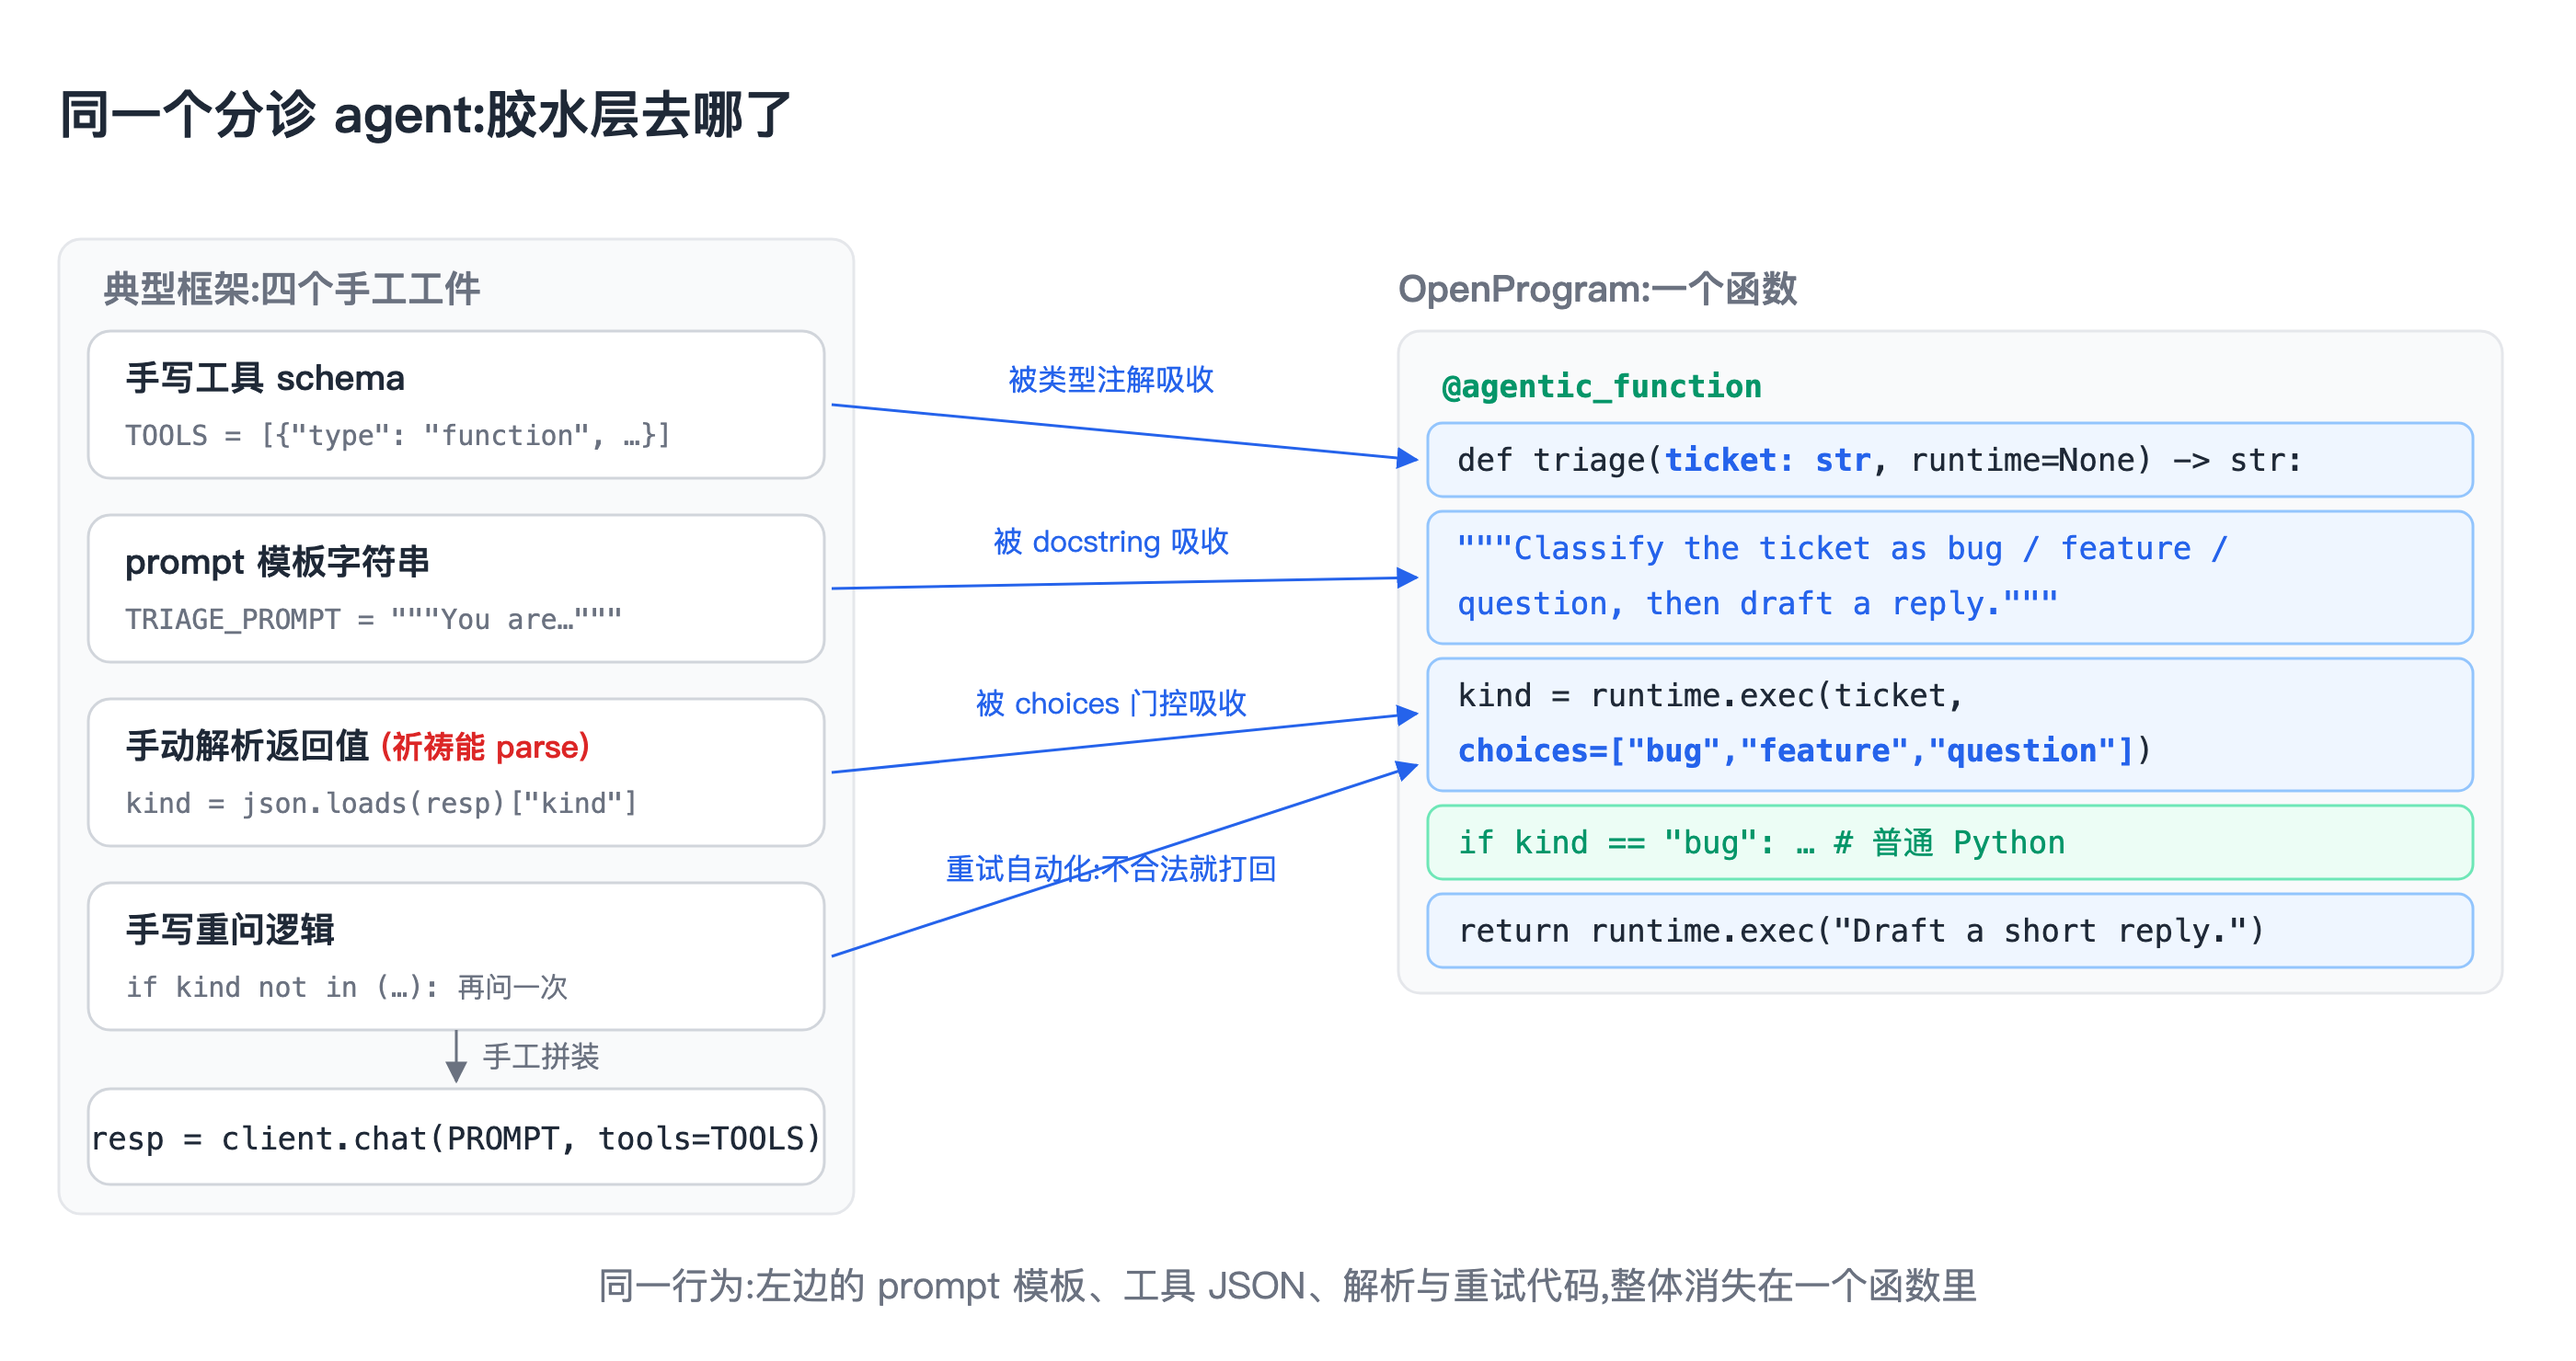
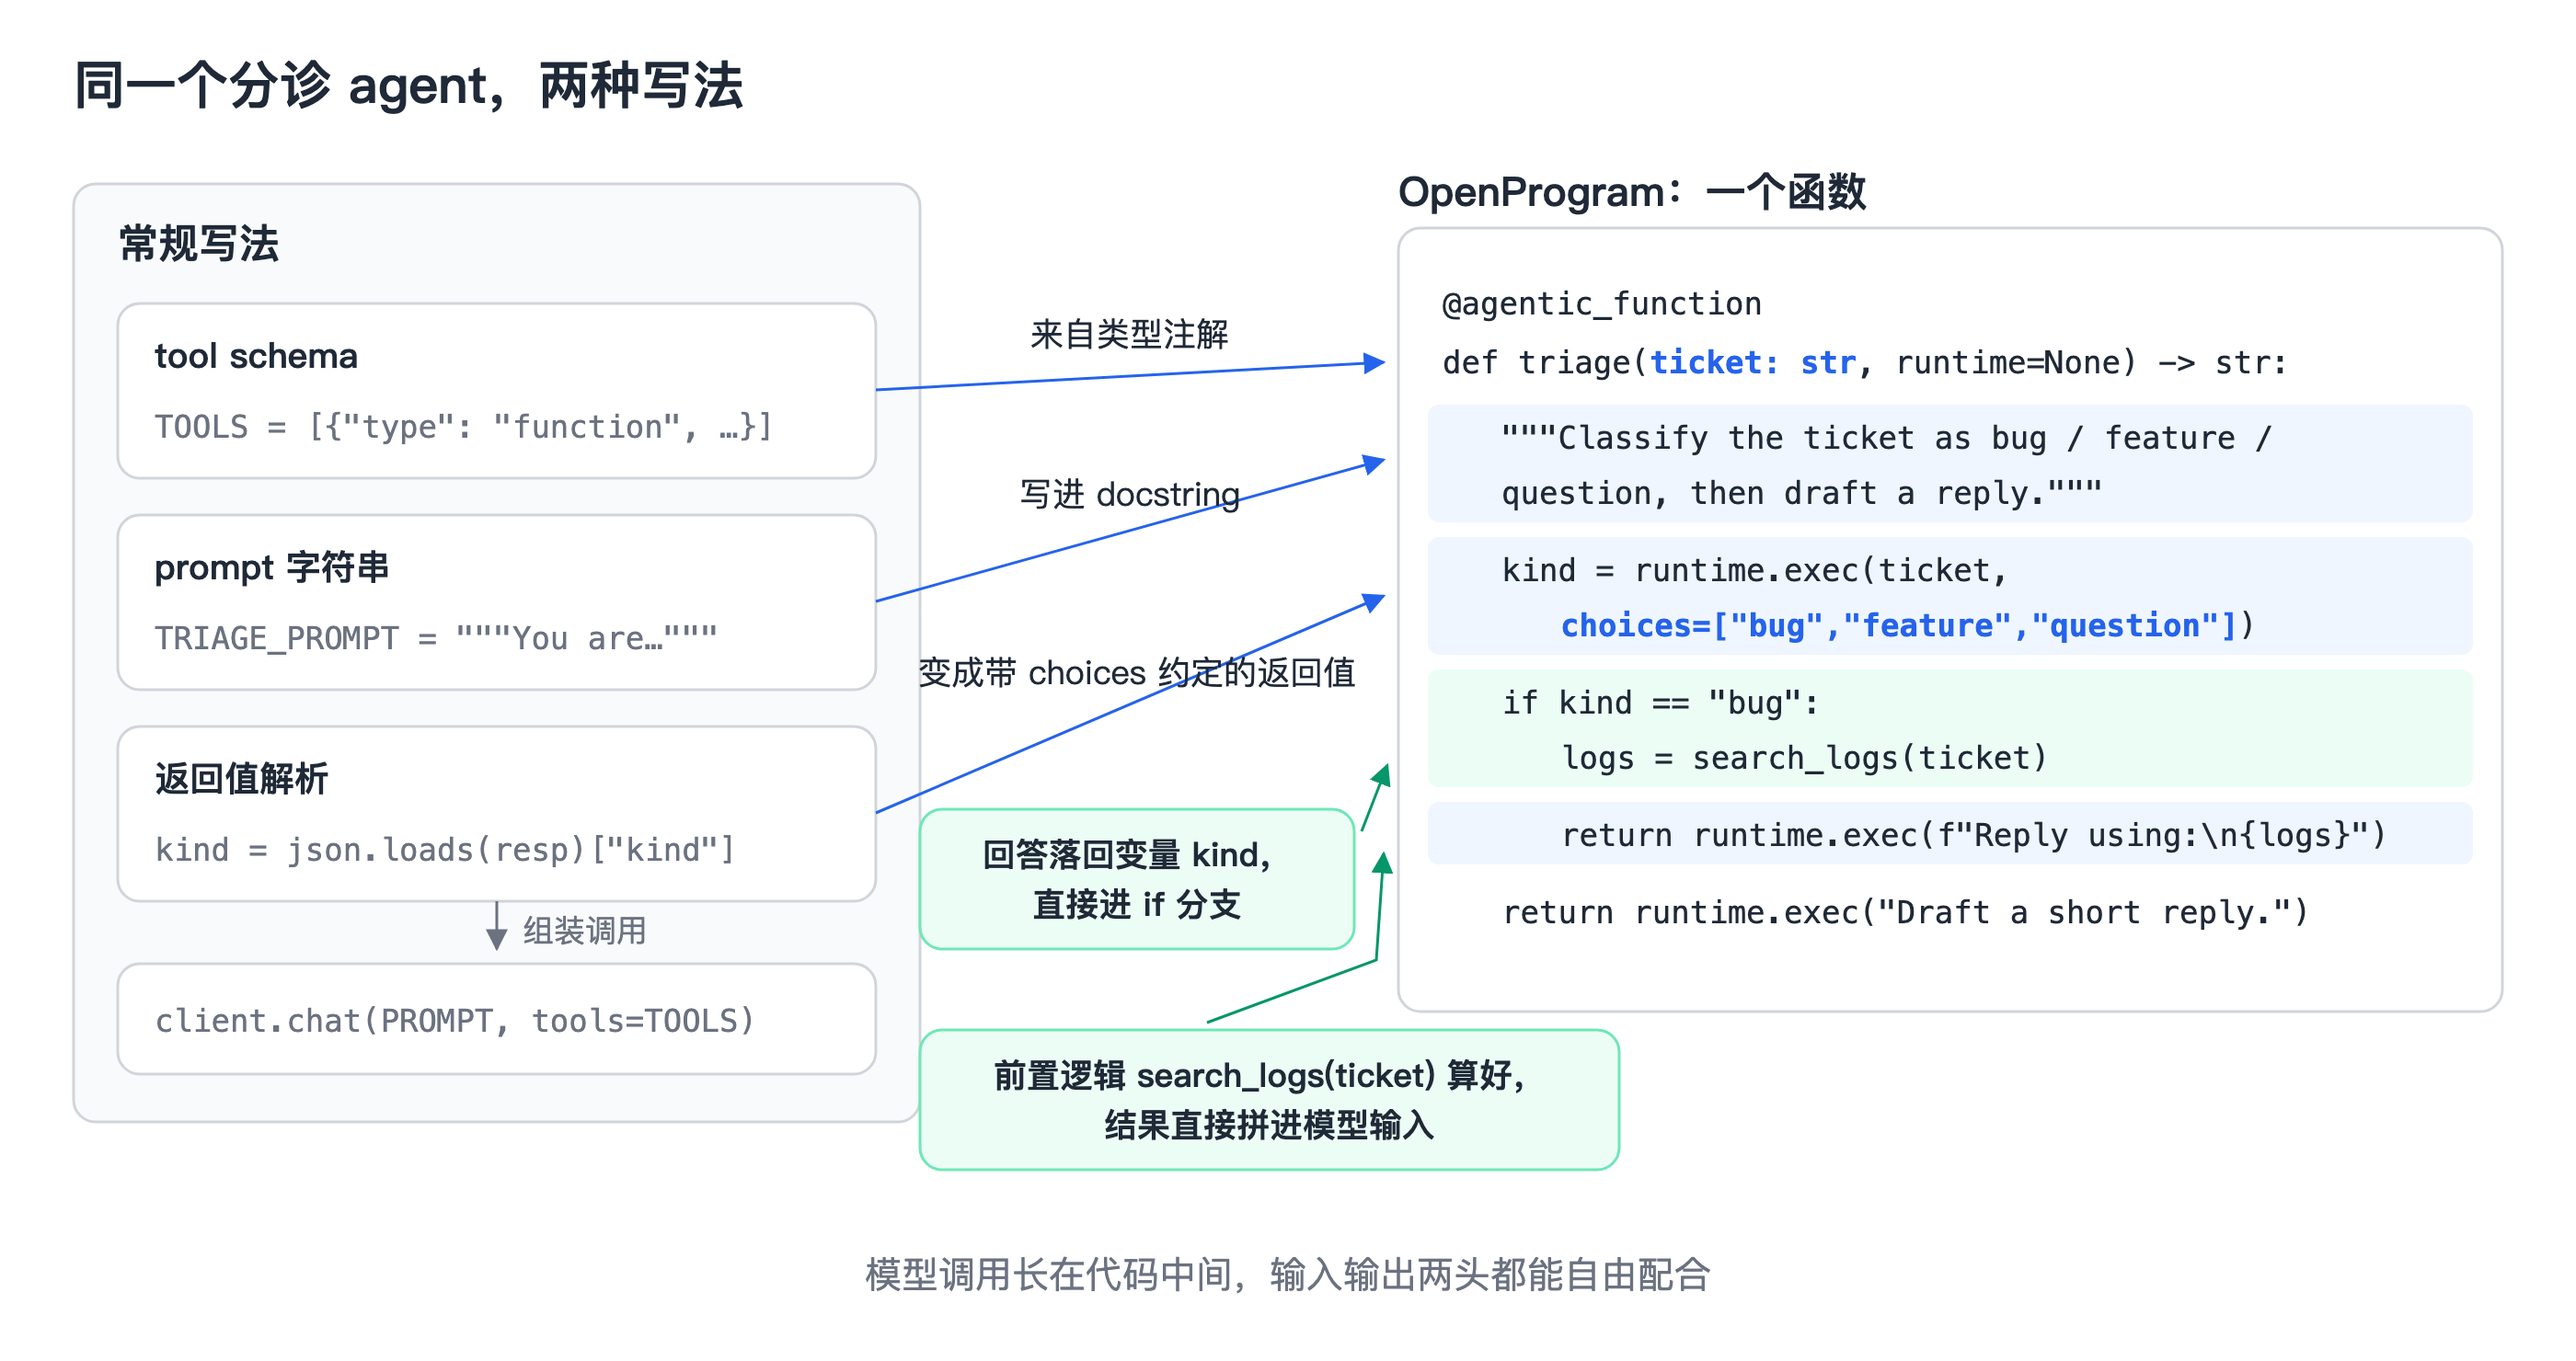
docs(promo): 01 篇基调改为正面陈述,重画 fig1 突出输入输出灵活性
Claude-Session: https://claude.ai/code/session_01JGdD7TLSRHU7jLupACLvy9

diff --git a/promo/zhihu/01-Agentic-Function.md b/promo/zhihu/01-Agentic-Function.md
@@ -2,20 +2,19 @@
 
 1. OpenProgram 技术解析（一）：像调用函数一样调用大模型
 2. 一个装饰器把 Python 函数变成 Agent：@agentic_function 是怎么工作的
-3. 别再手写 prompt 模板和 tool JSON 了：Agent 就该是一个 Python 函数
-4. Agentic Programming 的核心原语：docstring 是 prompt，类型注解是 schema
+3. Agentic Programming 的核心原语：docstring 是 prompt，类型注解是 schema
 
 ---
 
-写 LLM Agent 的人都干过这些事：把 prompt 存成字符串常量，手写一份 tool 的 JSON schema，调完接口 `json.loads` 一下，祈祷能 parse 成功，parse 失败再手写重试逻辑。这些代码和业务逻辑没有关系，纯粹是在伺候模型接口。
+大模型生成的内容，很多时候不是终点——生成完还要接着处理：拿代码去分析它、按它的结果决定下一步、把它和数据库或日志里的东西对起来。但生成内容和代码之间的耦合度目前很低：模型的输出先取出来，再专门写一段代码去解析、分析、分发。生成和处理是两个割裂的阶段，来回搬运，效率不高。
 
-我们在做 OpenProgram 的时候把这层东西整个删掉了。删掉的方式是一个装饰器：`@agentic_function`。这篇文章讲它是怎么工作的。
+于是我们想：能不能把大模型的输入输出直接接到函数调用里？函数体里既有普通语句也有模型调用，输入由代码拼出来，输出落回变量接着被代码处理——直接运行这个函数，就同时用上了代码的确定性和模型的能力。这就是 OpenProgram 的做法，载体是一个装饰器：`@agentic_function`。这篇文章讲它是怎么工作的。
 
 ## 同一个 agent，两种写法
 
 需求：一个工单分诊 agent，把工单分成 bug / feature / question，然后起草回复。
 
-先看典型框架下的写法：
+常规写法：
 
 ```python
 TRIAGE_PROMPT = """You are a triage
@@ -29,9 +28,9 @@ TOOLS = [{"type": "function", "function": {
     "required": ["ticket"]}}}]
 
 resp = client.chat(TRIAGE_PROMPT, tools=TOOLS)
-kind = json.loads(resp)["kind"]     # 祈祷能 parse
+kind = json.loads(resp)["kind"]     # 解析返回值
 if kind not in ("bug", "feature"):
-    ...                             # 手写重问逻辑
+    ...                             # 需要时自己重问
 ```
 
 再看 OpenProgram 下的写法：
@@ -52,19 +51,19 @@ def triage(ticket: str, runtime=None) -> str:
 
 ![](figures/01-fig1-comparison.png)
 
-行为完全一样，但左边那三样东西都没了：
+行为完全一样，三块东西各自找到了 Python 里现成的位置：
 
-- **prompt 模板没了**——docstring 就是 prompt。它本来就该写在函数上，Python 语法早就给了位置。
-- **tool JSON 没了**——类型注解就是 schema。`ticket: str` 这一行信息量和那七行 JSON 完全等价，框架替你生成。
-- **parse 和重试没了**——`choices=["bug", "feature", "question"]` 是一个代码门控：模型的回答落不进这三个值，框架自动把它送回去重新决策，直到合法为止。你的 `if kind == "bug"` 分支拿到的永远是合法值。
+- **prompt 写进 docstring**——它本来就该写在函数上，Python 语法早就给了位置。
+- **schema 来自类型注解**——`ticket: str` 这一行信息量和那七行 JSON 等价，框架替你生成。
+- **解析变成返回值**——`choices=["bug", "feature", "question"]` 声明了合法输出，框架保证 `kind` 拿到手就是三个值之一，可以直接进 `if` 分支。
 
-这里的关键不是"省了几行代码"，而是职责划分变清楚了：`runtime.exec()` 是模型调用，是一个可重试的 DAG 节点；除此之外的每一行——`if`、`for`、`return`、`search_logs(ticket)`——都是普通 Python，每次执行都确定地跑。**流程你写死，判断交给模型。** 模型没有机会跳过你的检查，也没有机会决定"这次不走这个分支了"。
+合并之后真正多出来的是灵活性：模型调用长在代码中间，输入输出两头都能自由配合。往前，`search_logs(ticket)` 这种前置逻辑用普通 Python 算好，结果直接拼进下一次 `runtime.exec()` 的输入；往后，模型的回答落回变量，立刻参与 `if`、`for`、`return`。想在两次模型调用之间插一段检索、一次数据库查询、一个正则清洗，就是写一行 Python 的事。**流程用代码组织，判断交给模型**——两边逐行交错，没有切换成本。
 
 ![](figures/01-fig2-anatomy.png)
 
-## 门控为什么可靠
+## 门控是怎么工作的
 
-`choices=[...]` 不是 prompt 里的一句"请从以下选项中选择"。它是校验代码。真实运行日志长这样：
+`choices=[...]` 是写在调用点上的输出约定：模型的回答要落进这几个值,框架负责校验。真实运行日志长这样：
 
 ```
 llm  → "probably a feature request"
@@ -73,7 +72,7 @@ llm  → {"call": "feature"}
 gate ✓ → branch taken in Python
 ```
 
-模型第一次回答含糊，校验失败，被退回重答；第二次给出合法值，Python 分支才继续。这是"代码约束模型"和"prompt 恳求模型"的区别：前者不可能被绕过。
+模型第一次回答含糊，校验没通过，框架带着失败原因再问一次；第二次给出合法值，Python 分支接着跑。重试由框架完成,你的代码只在拿到合法值之后开始执行——输出约定写在代码里,后面的控制流就可以放心依赖它。
 
 ![](figures/01-fig3-gate.png)
 
@@ -93,7 +92,7 @@ from openprogram.functions.agentics.triage import triage
 result = triage("app crashes on login")
 ```
 
-同一份代码，是 agent 的工具，是 CLI 命令，也是库函数。不用为三种场景写三份胶水。
+同一份代码，是 agent 的工具，是 CLI 命令，也是库函数，三种场景直接复用。
 
 ![](figures/01-fig4-three-ways.png)
 
@@ -121,7 +120,7 @@ def audit(repo: str, runtime=None) -> str:
 
 ## 为什么是"函数"
 
-因为函数是软件工程五十年攒下的全部工具的接口：单元测试、类型检查、import、组合、版本管理，全都直接可用。一个 agent 如果是 prompt 模板加 JSON 加胶水，这些工具一个都用不上；一个 agent 如果就是函数，这些工具全都白拿。
+因为函数是软件工程五十年攒下的全部工具的接口：单元测试、类型检查、import、组合、版本管理，全都直接可用。agent 一旦写成函数，这些工具全部白拿。
 
 我们把这个范式叫 Agentic Programming，正式表述在论文里（已被 KDD 2026 AgenticSE workshop 接收）。`@agentic_function` 是它的第一块砖，后面的 DAG 上下文、多 agent 协作、事件基础设施都建在这上面——那些是另外几篇的内容。
 
